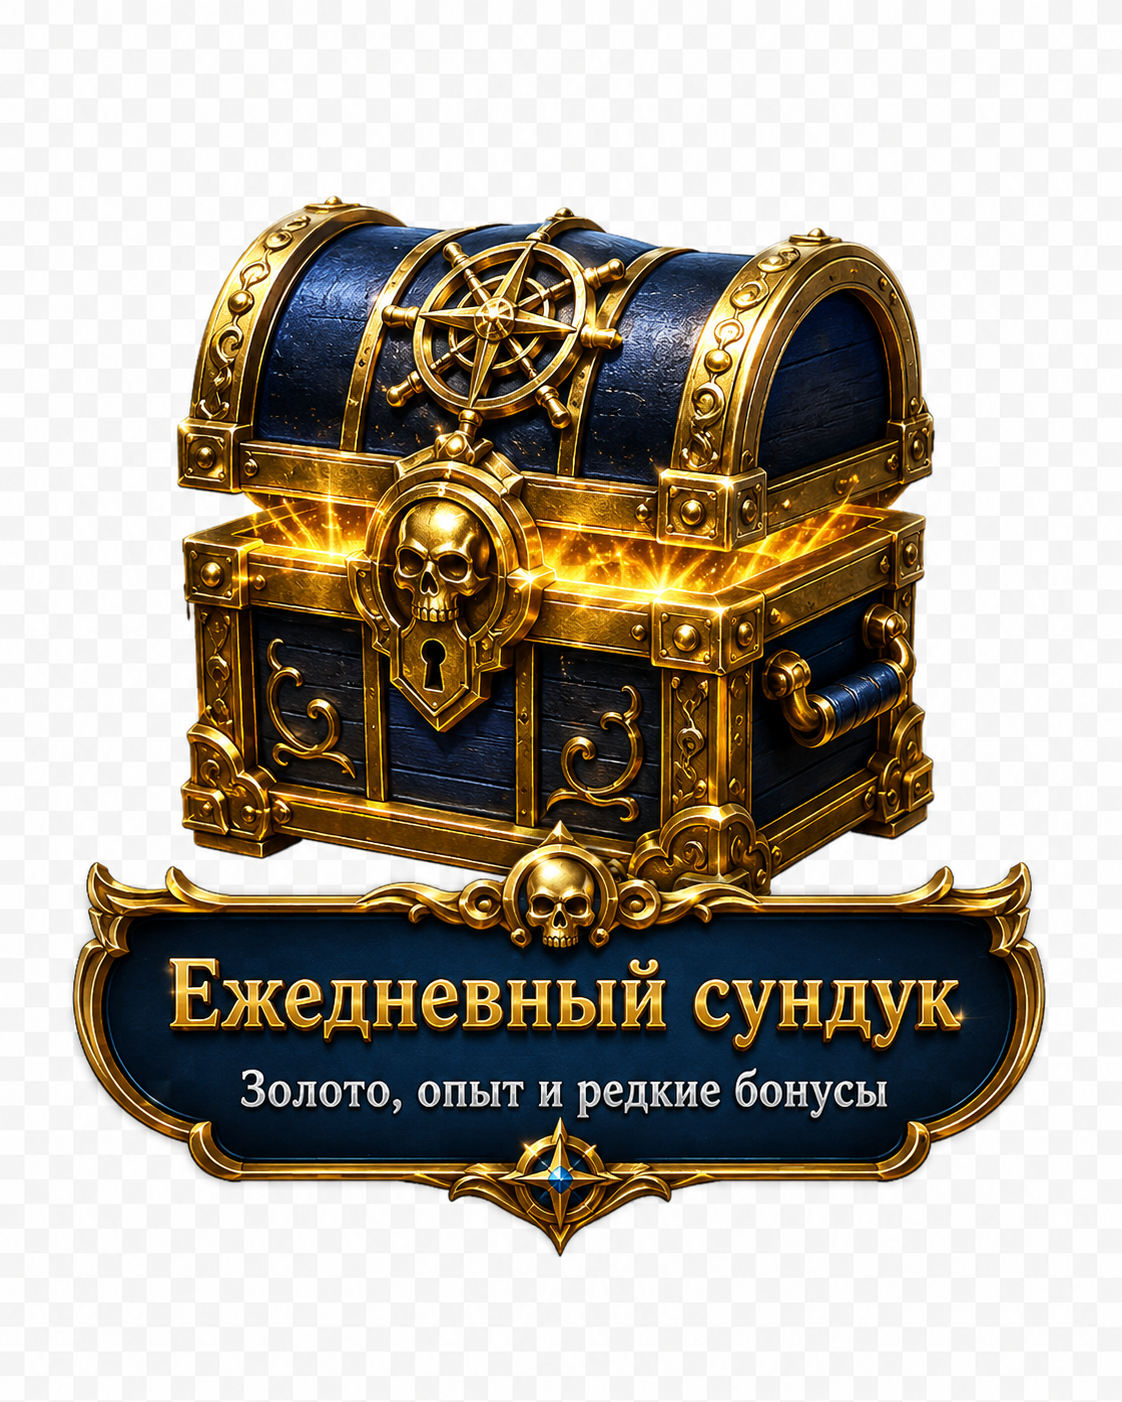
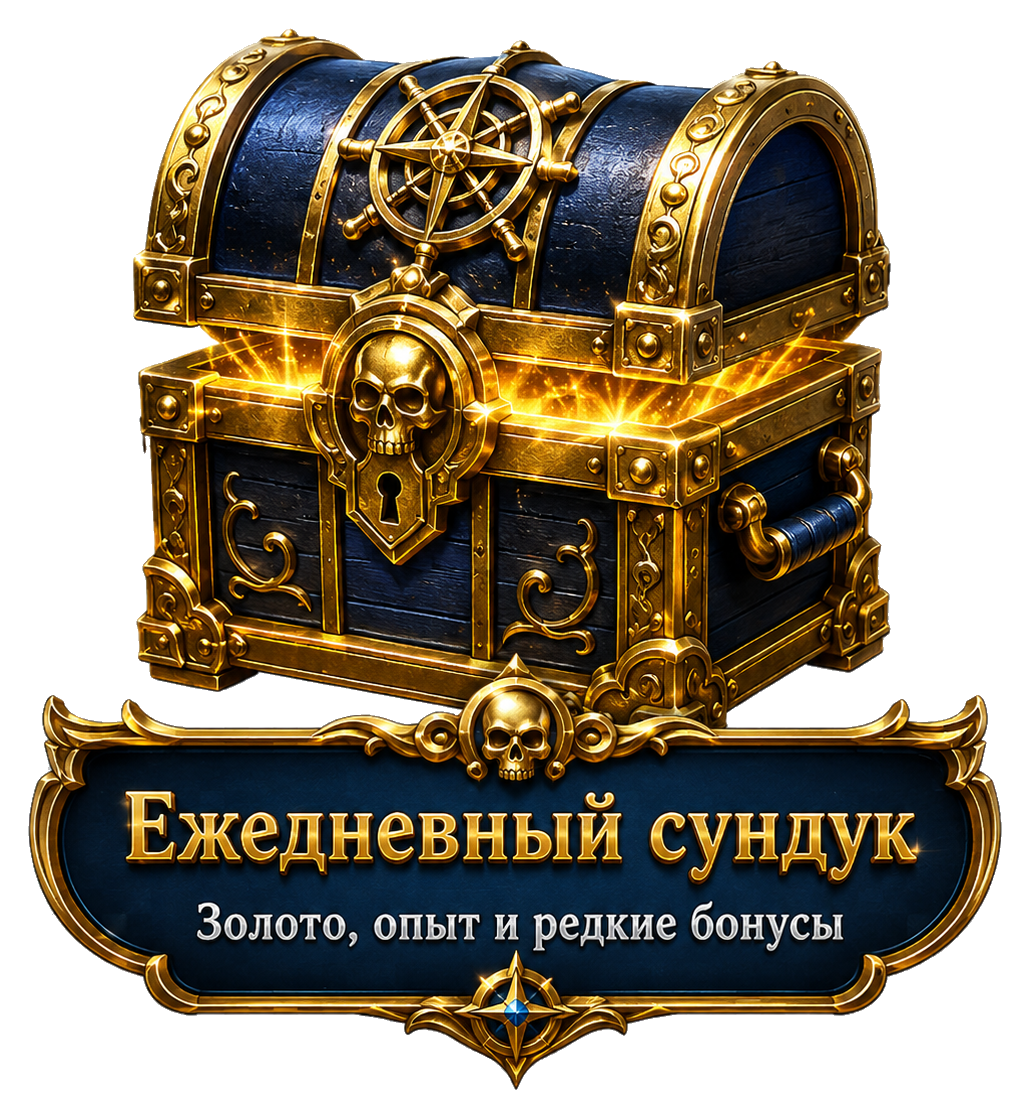
Improve daily chest visibility in main menu

diff --git a/src/scenes/MenuScene.js b/src/scenes/MenuScene.js
@@ -142,35 +142,43 @@ export class MenuScene extends Phaser.Scene {
 
   addAdmiralChest() {
     const x = GAME_WIDTH / 2;
-    const y = GAME_HEIGHT - 86;
+    const y = GAME_HEIGHT - 133;
     if (this.textures.exists(AssetKeys.Images.DailyChestReward)) {
-      this.chestButton = this.add.image(x, y, AssetKeys.Images.DailyChestReward)
-        .setDisplaySize(128, 160)
+      this.chestContainer = this.add.container(x, y);
+      this.chestGlow = this.add.graphics();
+      this.chestGlow.fillStyle(0x020812, 0.62);
+      this.chestGlow.fillRoundedRect(-168, -58, 336, 132, 24);
+      this.chestGlow.fillStyle(0xd7a748, 0.12);
+      this.chestGlow.fillEllipse(0, 18, 330, 196);
+      this.chestGlow.lineStyle(2, 0xd7a748, 0.46);
+      this.chestGlow.strokeRoundedRect(-168, -58, 336, 132, 24);
+      this.chestButton = this.add.image(0, -2, AssetKeys.Images.DailyChestReward)
+        .setDisplaySize(244, 265);
+      this.chestHitZone = this.add.zone(0, 8, 312, 248)
         .setInteractive({ useHandCursor: true });
-      this.chestBaseScale = { x: this.chestButton.scaleX, y: this.chestButton.scaleY };
-      this.chestButton.on('pointerover', () => {
+      this.chestContainer.add([this.chestGlow, this.chestButton, this.chestHitZone]);
+      this.chestBaseScale = 1;
+      this.chestHitZone.on('pointerover', () => {
         if (StorageService.canClaimDailyReward()) {
           this.tweens.add({
-            targets: this.chestButton,
-            scaleX: this.chestBaseScale.x * 1.04,
-            scaleY: this.chestBaseScale.y * 1.04,
+            targets: this.chestContainer,
+            scale: this.chestBaseScale * 1.04,
             duration: 120,
             ease: 'Sine.easeOut'
           });
         }
       });
-      this.chestButton.on('pointerout', () => {
+      this.chestHitZone.on('pointerout', () => {
         this.tweens.add({
-          targets: this.chestButton,
-          scaleX: this.chestBaseScale.x,
-          scaleY: this.chestBaseScale.y,
+          targets: this.chestContainer,
+          scale: this.chestBaseScale,
           duration: 120,
           ease: 'Sine.easeOut'
         });
       });
-      this.chestButton.on('pointerup', () => this.claimDailyReward());
+      this.chestHitZone.on('pointerup', () => this.claimDailyReward());
     } else {
-      this.chestButton = new Button(this, x, y, 260, 56, t('admiral_chest'), () => this.claimDailyReward(), {
+      this.chestButton = new Button(this, x, GAME_HEIGHT - 76, 260, 56, t('admiral_chest'), () => this.claimDailyReward(), {
         variant: 'primary',
         fontSize: 18
       });
@@ -184,7 +192,7 @@ export class MenuScene extends Phaser.Scene {
       this.chestButton.setEnabled(canClaim);
       this.chestButton.setLabel(canClaim ? t('admiral_chest') : t('tomorrow'));
     } else {
-      this.chestButton.setAlpha(canClaim ? 1 : 0.62);
+      this.chestContainer.setAlpha(canClaim ? 1 : 0.62);
       this.chestButton.clearTint();
       if (!canClaim) {
         this.chestButton.setTint(0x6f7784);
@@ -200,8 +208,8 @@ export class MenuScene extends Phaser.Scene {
     if (this.chestButton instanceof Button) {
       this.chestButton.setEnabled(false);
     } else {
-      this.chestButton.disableInteractive();
-      this.chestButton.setAlpha(0.62);
+      this.chestHitZone.disableInteractive();
+      this.chestContainer.setAlpha(0.62);
     }
     YandexService.showRewardedAd(() => this.grantDailyReward());
   }
@@ -224,7 +232,7 @@ export class MenuScene extends Phaser.Scene {
     this.refreshCareerPanel();
     this.refreshChest();
     if (!(this.chestButton instanceof Button)) {
-      this.chestButton.setInteractive({ useHandCursor: true });
+      this.chestHitZone.setInteractive({ useHandCursor: true });
     }
 
     if (profile.__rankUp) {
